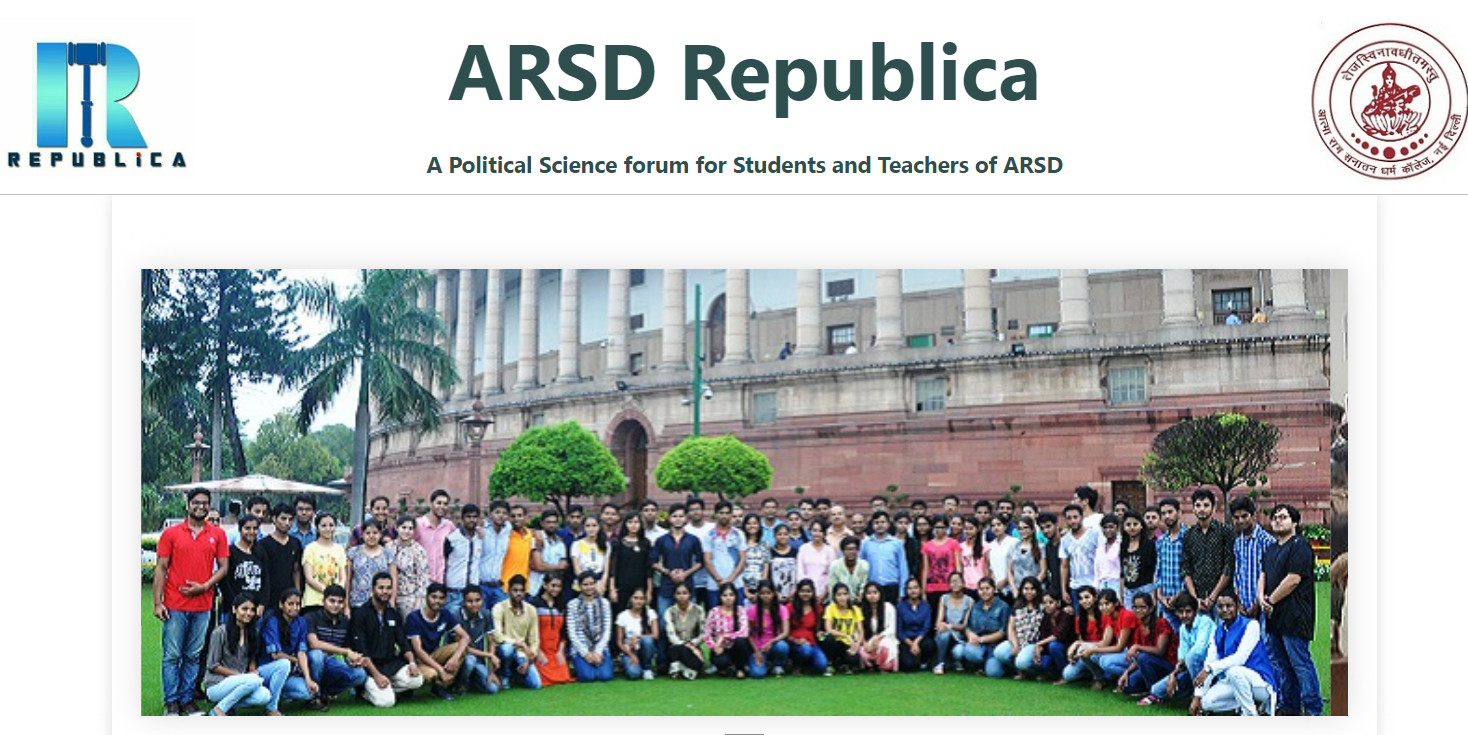
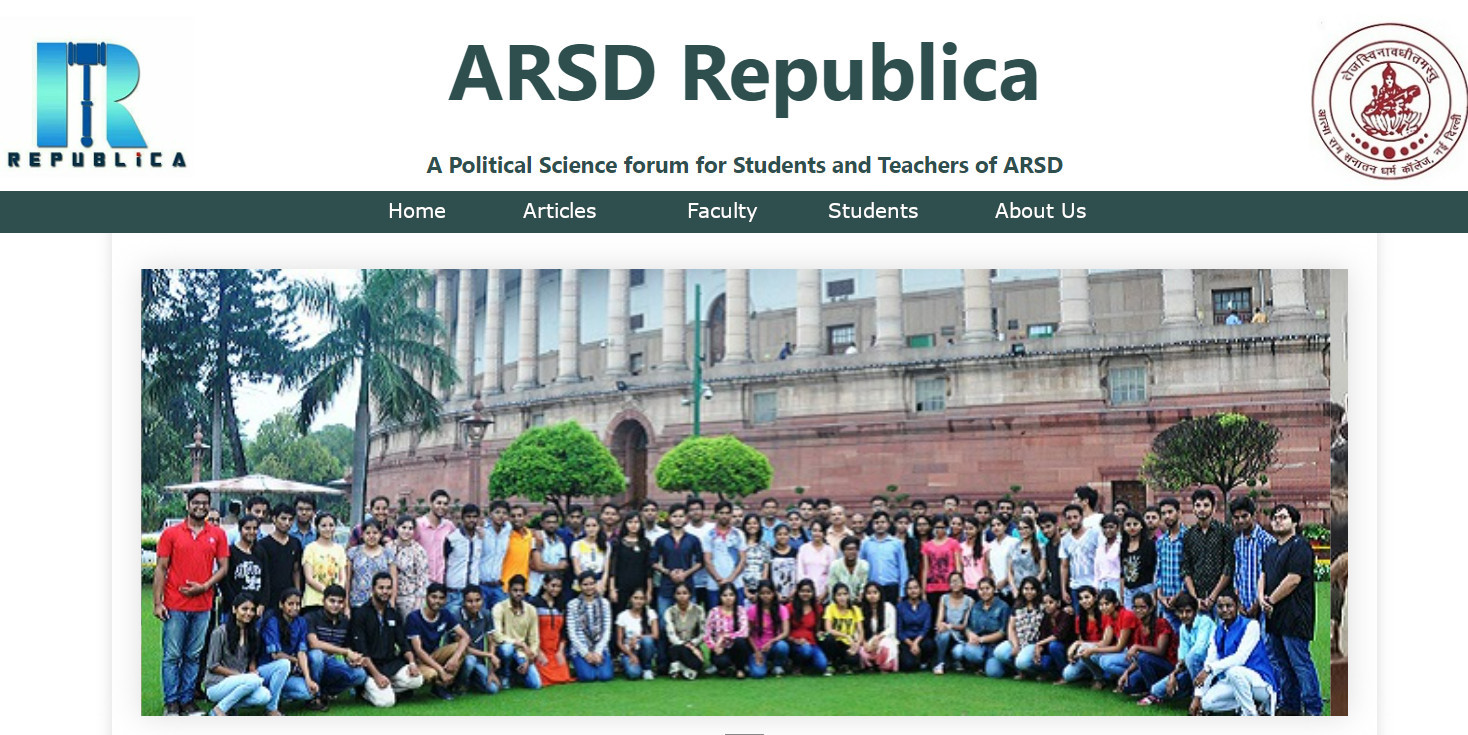
landscape version of the site is done

Changed region(s): [[0.0, 0.2395, 1.0, 0.3293]]

diff --git a/index_main.html b/index_main.html
@@ -172,6 +172,9 @@
         .slide_cntrl>img:hover{
             width: 40%; height: 40%; transition: 100ms; cursor: pointer;
         }
+        .xslide{
+            transition: 200ms;
+        }
     </style>
     <script>
         var checkDimIntv;
@@ -382,7 +385,7 @@
 
 </head>
 
-<body onload="slideshowInitialise();">
+<body onload="slideshowInitialise();xslide_intvl();">
     <div class="loader"></div>
     <script>
         {
@@ -468,10 +471,10 @@
         <div class="nav_items" onclick="location.href='#home'">Home</div>
         <div class="nav_items" onclick="location.href='#my_apps'">My Apps</div>
         <div class="nav_items" onclick="location.href='https://play.google.com/store/apps/dev?id=5128058888955831755';">Playstore</div>
-        <div class="nav_items" onclick="location.href='https://github.com/Romanjan-Das?tab=repositories';">Github</div>
-        <div class="nav_items" onclick="location.href='mailto:romanjandas.mail@gmail.com'">Contact</div>
+        <div class="nav_items" onclick="location.href='#my_sites'">My Sites</div>
+        <div class="nav_items" onclick="show_modal();">Contact</div>
     </div>
-    <div style="width: 100vw; height:205vh; background-color:rgba(0, 0, 0, 0.526);box-sizing: border-box;">
+    <div style="width: 100vw; height:305vh; background-color:rgba(0, 0, 0, 0.526);box-sizing: border-box;">
         <div id="home" class="works"></div>
         <div id="my_apps" class="works">
             <div style="color:white;font-size:10vh; margin-bottom: 3vh;">My Apps</div>
@@ -507,8 +510,63 @@
             <div class="slide_cntrl" onmouseover="clearsTheInterval();" onmouseout="startsTheInterval();"><img src="images/slide_right_img.svg" alt="" onclick="nextSlide();"></div></div>
             
         </div>
-    </div>
 
+
+        <div id="my_sites" class="works">
+            <div style="color:white;font-size:10vh; margin-bottom: 3vh;">My Sites</div>
+            <div class="sld_container" style="height: 80%;">
+            <div class="slide_cntrl"><img src="images/slide_left_img.svg" alt="" onclick="prv_xslide();"></div>
+            <div class="works_inside" style="height: 100%;display: flex;align-items: center;">
+                <img class="xslide" style="height: 100%;width: 0px; opacity: 0;" src="images/xslide(1).jpg" alt="">
+                <img class="xslide" style="height: 100%;width: 0px; opacity: 0;" src="images/xslide(2).jpg" alt="">
+            </div>
+            <div class="slide_cntrl"><img src="images/slide_right_img.svg" alt="" onclick="nxt_xslide();"></div></div>
+        </div>
+        <script>
+            function xslide_intvl(){
+                var y=true;
+                var z=setInterval(() => {
+                    if(y){
+                        prv_xslide();
+                        y=false;
+                    }
+                    else{
+                        nxt_xslide();
+                        y=true;
+                    }
+                }, 3500);
+            }
+
+            function prv_xslide(){
+                document.getElementsByClassName("xslide")[0].style.width="100%";
+                document.getElementsByClassName("xslide")[0].style.opacity="1";
+                document.getElementsByClassName("xslide")[1].style.width="0px";
+                document.getElementsByClassName("xslide")[1].style.opacity="0";
+            }
+            function nxt_xslide(){
+                document.getElementsByClassName("xslide")[1].style.width="100%";
+                document.getElementsByClassName("xslide")[1].style.opacity="1";
+                document.getElementsByClassName("xslide")[0].style.width="0px";
+                document.getElementsByClassName("xslide")[0].style.opacity="0";
+            }
+        </script>
+    </div>
+<div id="modal" style="font-size: larger;position: fixed;width: 100%;height: 100%;background-color: black;top: 0px;left: 0px;z-index: 101;opacity: 0.9;display: none;flex-direction: column;align-items: center;justify-content: center;">
+    <div style="position:relative;width:50.5%;margin-bottom:10px;display: flex;justify-content: flex-end;"><div onclick="hide_modal();" style="cursor: pointer;">&#10060;</div></div>
+    <div style="width: 50%;height:40%;background-color: black;color:white;border: 2px grey  solid;display: flex;flex-direction: column;align-items: center;justify-content: center;">
+        <div style="text-align: center;">My e-mail:<br>romanjandas.mail@gmail.com</div>
+        <div style="background-color: black;text-align: center;cursor: pointer;padding: 3px;padding-left:5px;padding-right:5px;margin-top:60px;border: 2px grey solid;width: 200px;"
+        onclick="location.href='mailto:romanjandas.mail@gmail.com'">Send a mail</div>
+    </div>
+</div>
+<script>
+    function hide_modal(){
+        document.getElementById("modal").style.display="none";
+    }
+    function show_modal(){
+        document.getElementById("modal").style.display="flex";
+    }
+</script>
 </body>
 
 </html>
